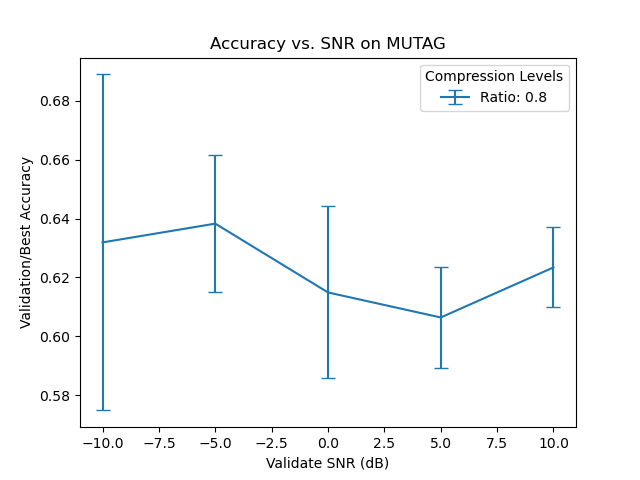
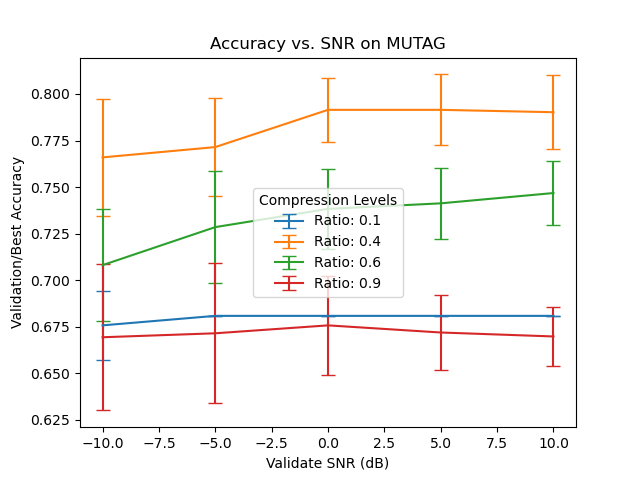
train and plot mutag with compression levels

diff --git a/my_model.py b/my_model.py
@@ -140,7 +140,7 @@ class Model_channel(pl.LightningModule):
         x = torch.nn.functional.relu(x)
 
         x = global_mean_pool(x, batch)  #aggregate all features in one supernode per graph.
-        # TODO if noise is mean zero
+        
         x = self.post(x)
 
         return x, edges, ne_probs
@@ -159,15 +159,11 @@ class Model_channel(pl.LightningModule):
 
 
     def training_step(self, batch, batch_idx):
-       # print(f"Batch size: {batch.batch.max().item() + 1}")  # Number of graphs in the batch
+       
         pred, _, _ = self(batch)
         train_lab = batch.y
 
-   
-        #pred = pred[batch.train_mask].float()
-
         tr_loss = F.binary_cross_entropy_with_logits(pred, F.one_hot(train_lab, num_classes = self.num_classes).float())
-        #tr_loss = F.binary_cross_entropy_with_logits(pred, train_lab)
 
         if torch.isnan(tr_loss).any() or torch.isnan(pred).any():
             print(f"NaN detected in training data or loss at batch {batch_idx}")
@@ -180,7 +176,6 @@ class Model_channel(pl.LightningModule):
         return tr_loss
 
     def validation_step(self, batch, batch_idx):
-        # Print batch size to check if multiple graphs are being batched
 
         pred, _, _ = self(batch)
         val_lab = batch.y

diff --git a/main.py b/main.py
@@ -99,8 +99,8 @@ def train_and_plot(config: DictConfig):
 
 if __name__ == "__main__":
     
-    #train_and_plot()
-    setup_training()
+    train_and_plot()
+    #setup_training()
     # trainer, channel, train_loader, val_loader = setup_training()
     # trainer.fit(channel, train_dataloaders=train_loader, val_dataloaders=val_loader)
 
